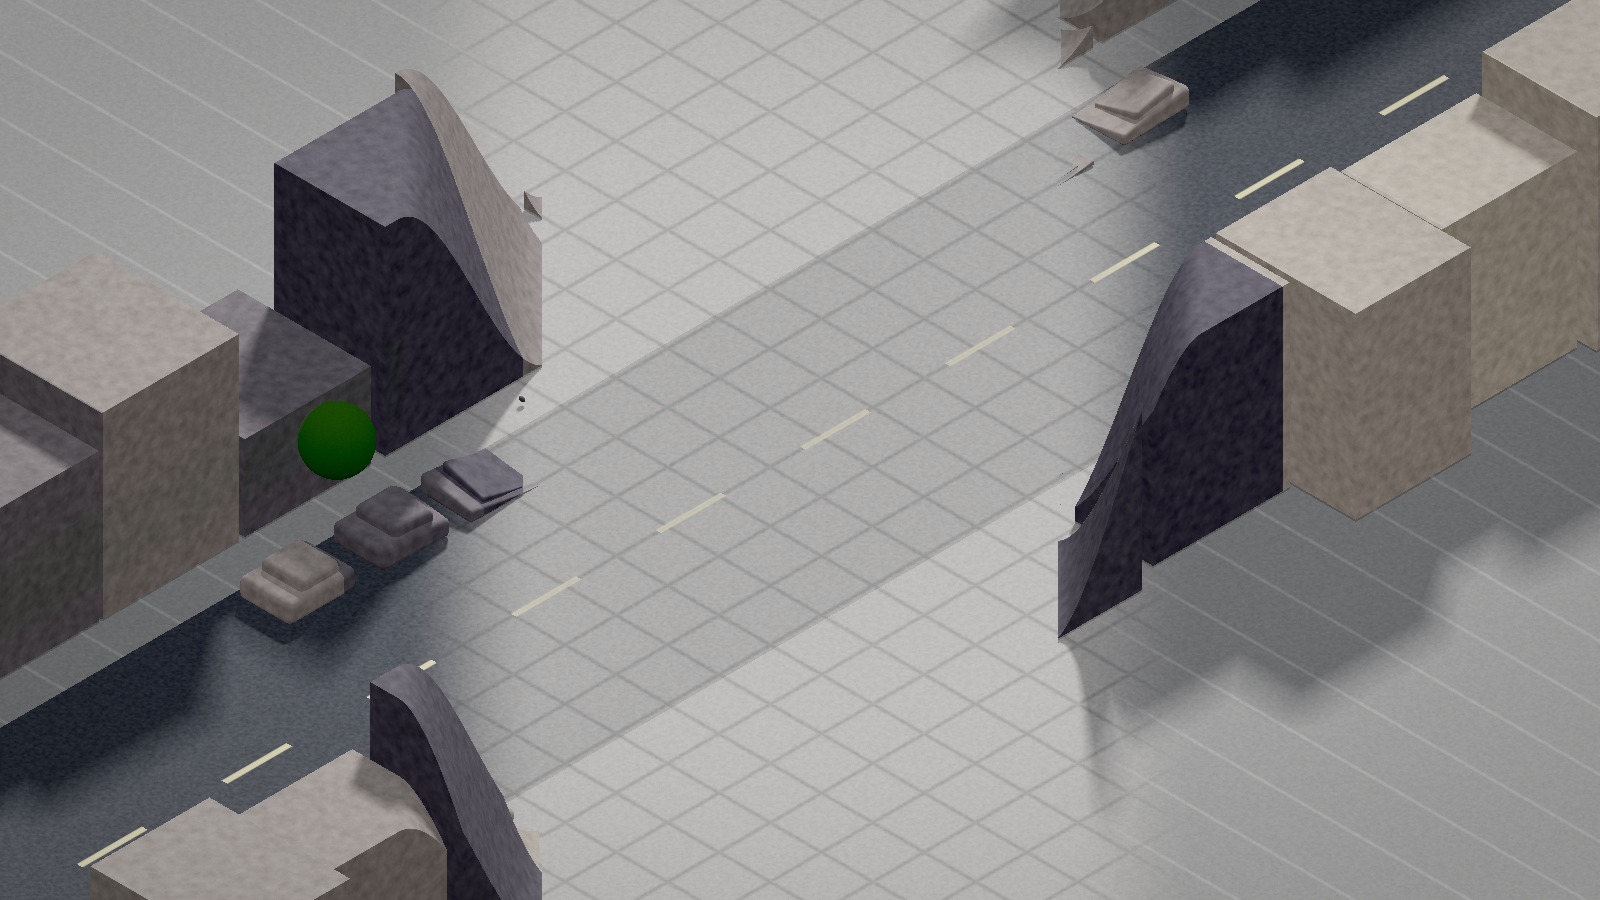
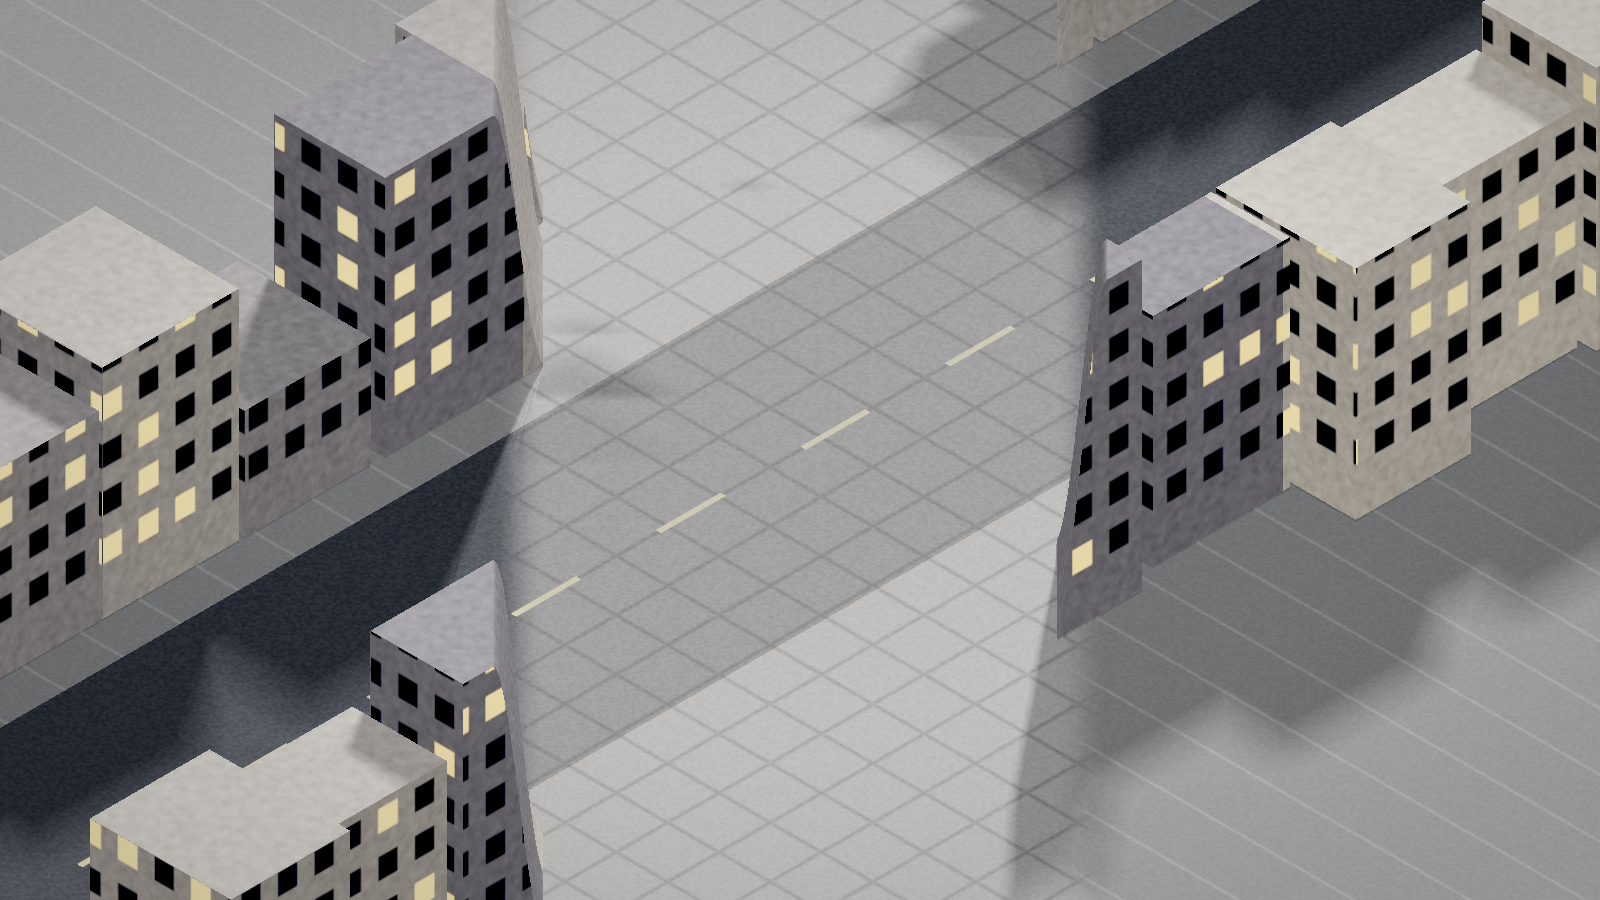
Drop the cars and trees from 06-street, give the buildings windows
The parked cars read badly. At this scale they were two rounded boxes
each, which at an isometric angle is a lump rather than a car, and the
street trees were spheres on invisible trunks. Both are gone; the block
is buildings and road now.

The buildings carry windows instead, and they are shaded on rather than
modelled. A recess per pane would cost thousands of extra distance
evaluations a pixel for something a wall-space coordinate draws exactly:
the face normal picks the wall's own 2D frame — a face whose normal is
mostly x runs along z, so its horizontal coordinate is z — and a pane
grid follows from that. Panes are seeded per building, per face and per
cell, so neighbours do not light the same windows at the same height, and
lit ones add a little emissive so they survive shadow instead of reading
as paint. The ground floor gets none: a pane sliced off by the pavement
reads as a hole in the wall.

Two things fell out of looking at it. Windows are drawn only where the
normal is nearly axis-aligned — on the surfaces sagging into the plaza
the normal sweeps through every direction, and the grid broke up into
speckle. And the plaza ramp is much narrower than it was, because the
sag it produced looked like a melted curtain once there were windows
either side of it to compare against; at this width the buildings cut
back with a short bevel and stay boxes.

Also here: brighter facades, since the walls were dark enough to read as
[…]

diff --git a/examples/06-street/index.html b/examples/06-street/index.html
@@ -214,8 +214,8 @@
           <h1>Street works permit</h1>
           <p class="lede">
             The city is measured against this form. Its rect is projected into the isometric
-            scene every frame, and the block clears out of the way — buildings step down, cars
-            and trees stay out — leaving a paved plaza under the page. Scroll to drive along it.
+            scene every frame, and the block clears out of the way — the buildings cut back from
+            the edge — leaving a paved plaza under the page. Scroll to drive along it.
           </p>
         </section>
 

diff --git a/README.md b/README.md
@@ -106,7 +106,7 @@ transfer functions and tonemapping from `@vgpu/wgsl-std/color`
 | `02-cloud-form` | A real HTML `<form>` with no background of its own, over a canvas that draws the cloud serving as its chrome. A `ResizeObserver` feeds the form's measured rect to the shader, so the silhouette tracks the DOM through any reflow, and `focusin`/`focusout` swell the cloud. |
 | `03-tetsuo` | A raymarched arm coming apart. Masses erupt along the limb through smooth unions, and a cylindrically projected Voronoi separates the surface into cells of muscle, bruise, fat and something colder. A `<input type="range">` drives the mutation and the telemetry panel reads from the same number. |
 | `04-organ` | The same cylinder turned inside out and faced rather than travelled down, with a long HTML form over it. Lamp on the lens, nodules fixed on Voronoi seed points, and a heartbeat that moves the whole wall as one body and flushes it redder on systole. Scrolling the form moves the camera along the wall; the tone field writes straight into the shader. |
-| `06-street` | An isometric block that gets out of the form's way. The camera is orthographic, which is the point: world-to-screen is then a fixed linear map, so the shader can project any sample point and ask whether it lands inside the form's measured rect. Where it does, nothing is allowed to stand — buildings step down, cars and trees stay out — and the street widens into a paved plaza under the page. The clearing tracks only the visible slice of the three-page form; the whole rect would delete the city rather than make room in it. |
+| `06-street` | An isometric block that gets out of the form's way. The camera is orthographic, which is the point: world-to-screen is then a fixed linear map, so the shader can project any sample point and ask whether it lands inside the form's measured rect. Where it does, nothing is allowed to stand: the buildings cut back from the edge and the street widens into a paved plaza under the page. Their windows are shaded on from the hit position and the face normal rather than modelled, so a facade full of them costs the same as a bare wall. The clearing tracks only the visible slice of the three-page form; the whole rect would delete the city rather than make room in it. |
 
 Colours in a shader are authored in sRGB and converted with `srgbToLinear3`
 before use. Using picker values as if they were linear makes a mid blue roughly
